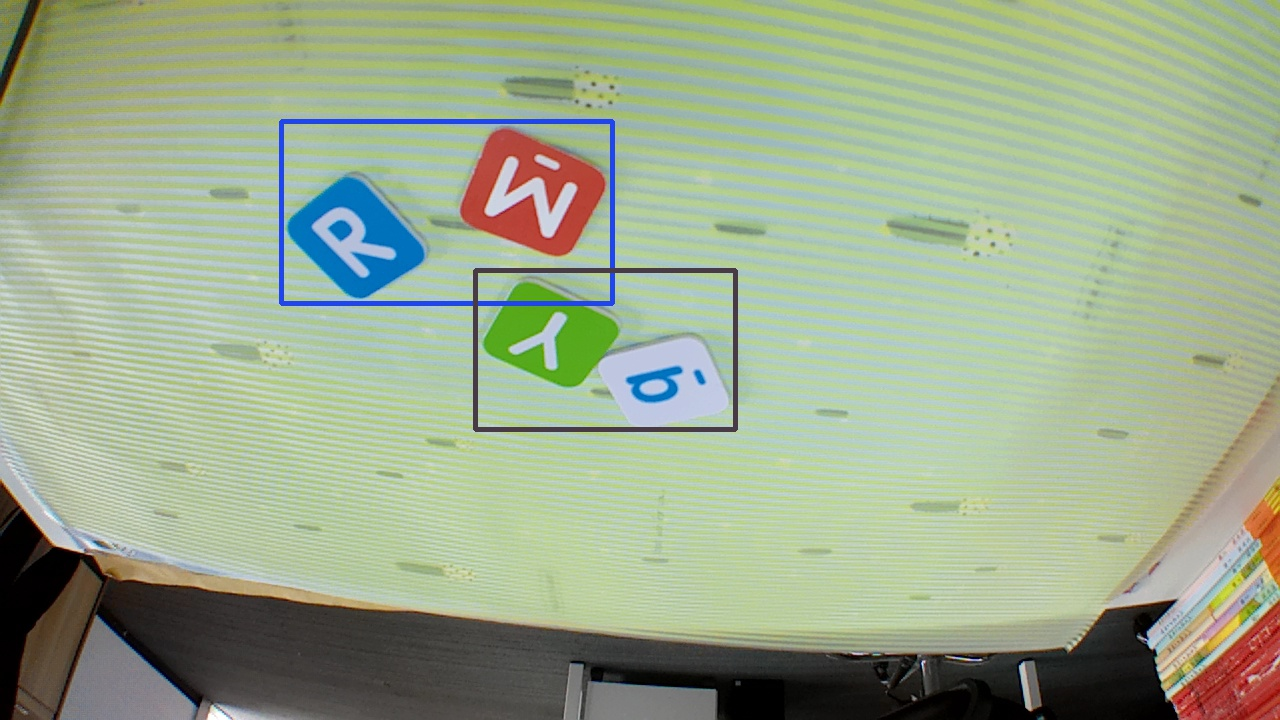
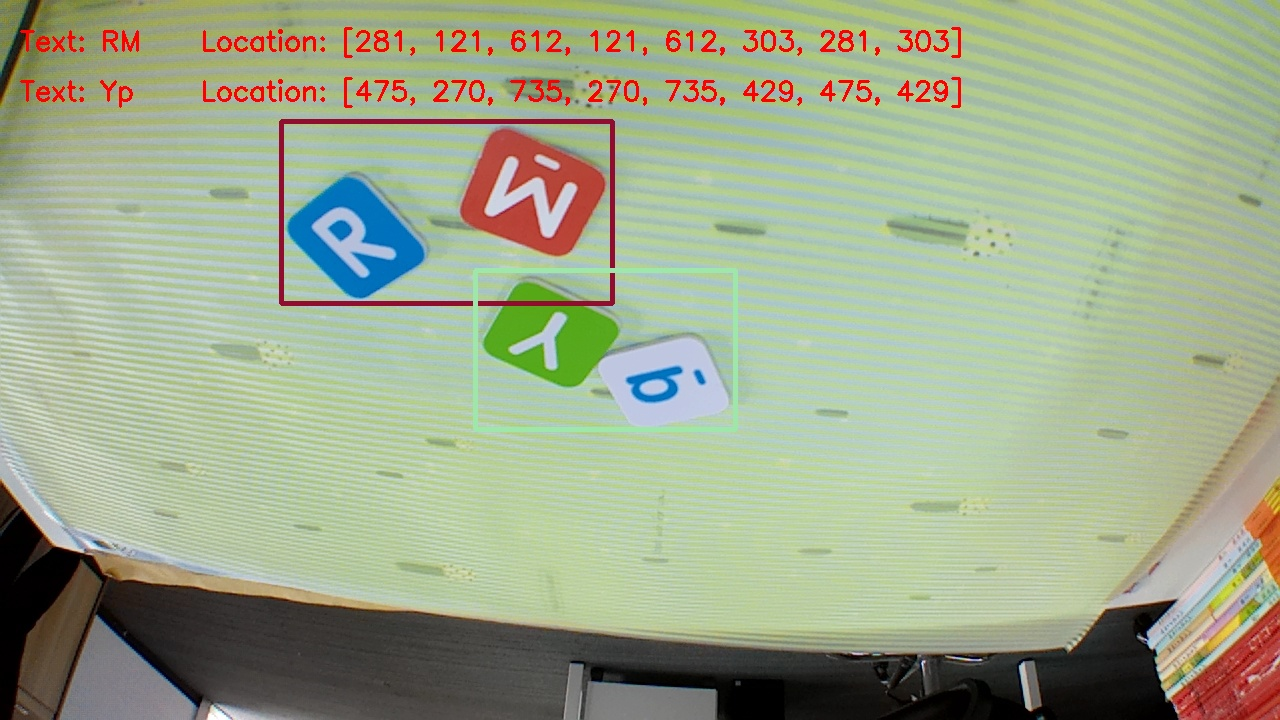
update

Changed region(s): [[0.1562, 0.0306, 0.75, 0.6111], [0.0, 0.0306, 0.125, 0.1528]]

diff --git a/demo.py b/demo.py
@@ -26,18 +26,24 @@ def get_bbox_info(txt_path):
         bbox_infos.append([char, x1, y1, x2, y2, x3, y3, x4, y4])
     return bbox_infos
 
-def visulaize_results(image_path, cluster_rectangle):
+def visulaize_results(image_path, cluster_rectangle, cluster_texts):
     image = cv2.imread(image_path)
     for i in range(len(cluster_rectangle)):
         rectangle = cluster_rectangle[i]
+        text = cluster_texts[i]
         left_top = (rectangle[0],rectangle[1])
         right_bottom = (rectangle[4],rectangle[5])
         random_color = (random.randint(0,255),random.randint(0,255),random.randint(0,255))
         image = cv2.rectangle(image, left_top, right_bottom, random_color, 3)
+        cv2.putText(image, "Text: " + str(text), (int(20), int((i+1)*50)), cv2.FONT_HERSHEY_SIMPLEX, 0.9, (0, 0, 255), 2)
+        if(len(text)>9):
+            cv2.putText(image, "Location: " + str(rectangle), (int(300), int((i+1)*50)), cv2.FONT_HERSHEY_SIMPLEX, 0.9, (0, 0, 255), 2)
+        else:
+            cv2.putText(image, "Location: " + str(rectangle), (int(200), int((i+1)*50)), cv2.FONT_HERSHEY_SIMPLEX, 0.9, (0, 0, 255), 2)
     path, base_name = os.path.split(image_path)
     save_path = os.path.join(path, base_name.split(".jpg")[0]+"_result.jpg")
     cv2.imwrite(save_path, image)
-
+    
 if __name__ == "__main__":
     """
     Usage: python3 demo.py --path xx/test_resources
@@ -60,4 +66,4 @@ if __name__ == "__main__":
         joint_dict = get_results(bbox_infos)
         print("input: {}\noutput: {}\n".format(os.path.basename(txt_path), joint_dict))
         # 3.可视化拼接结果：在原图上，绘制出各区域的矩形框
-        visulaize_results(image_path, joint_dict["bbox"])
+        visulaize_results(image_path, joint_dict["bbox"], joint_dict["text"])
